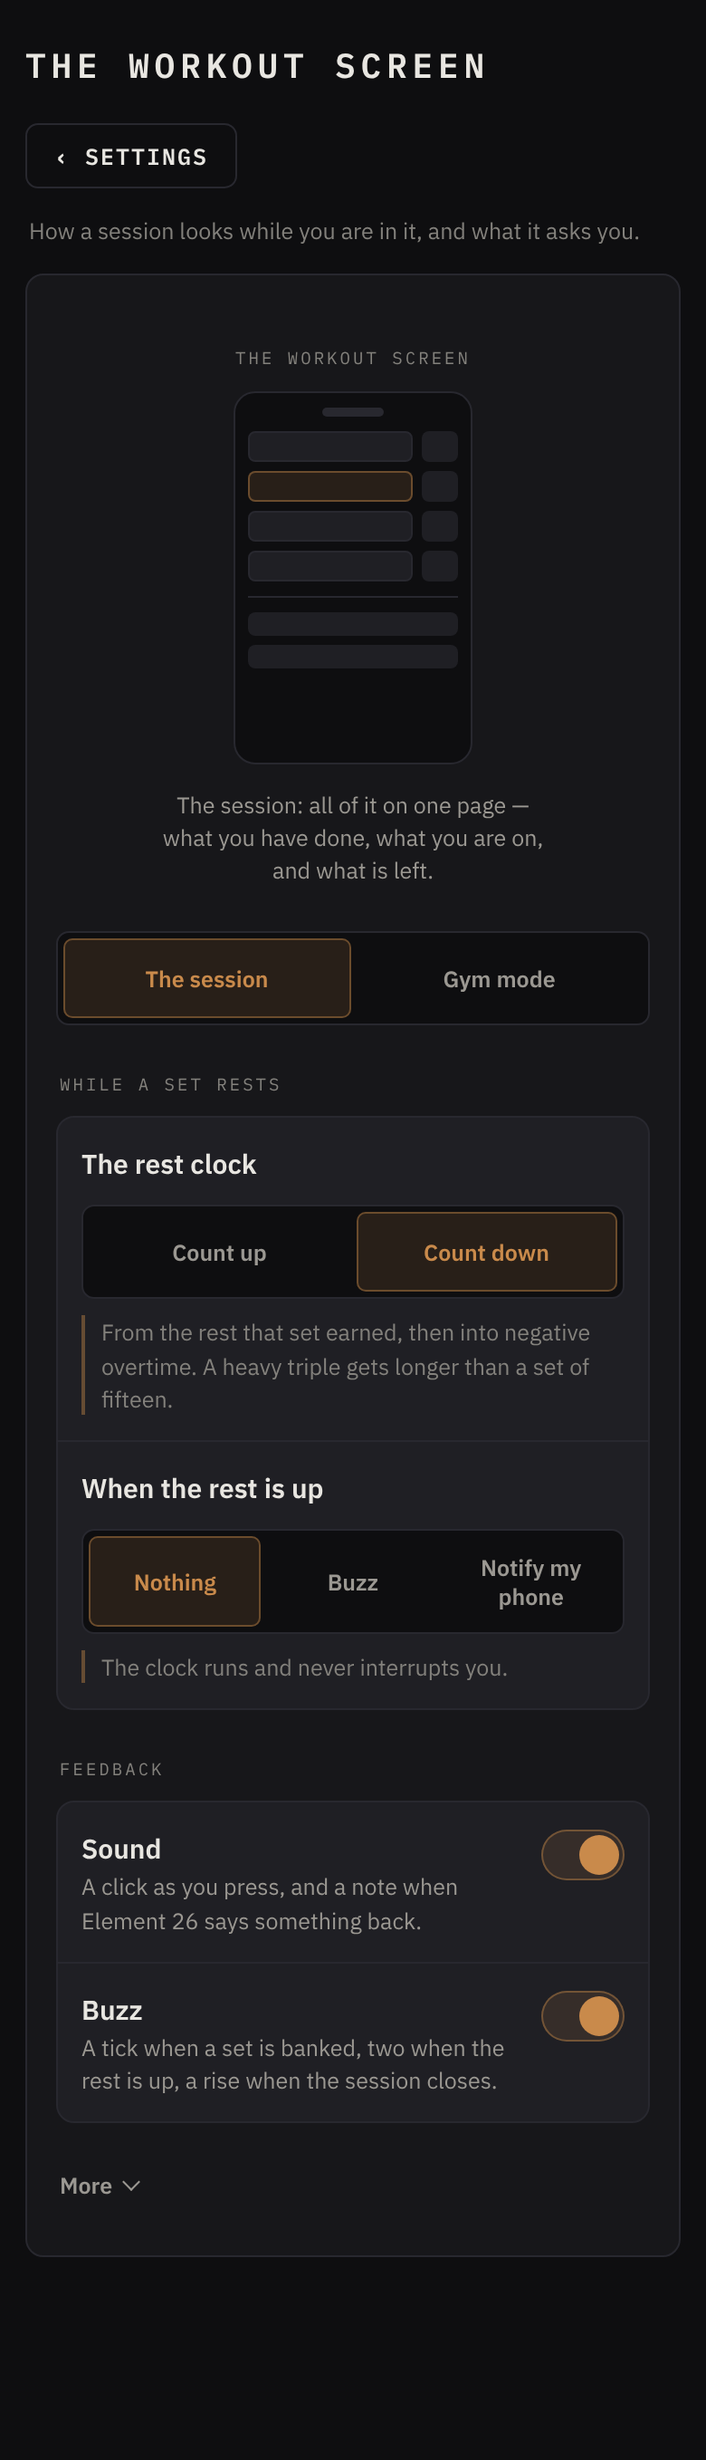
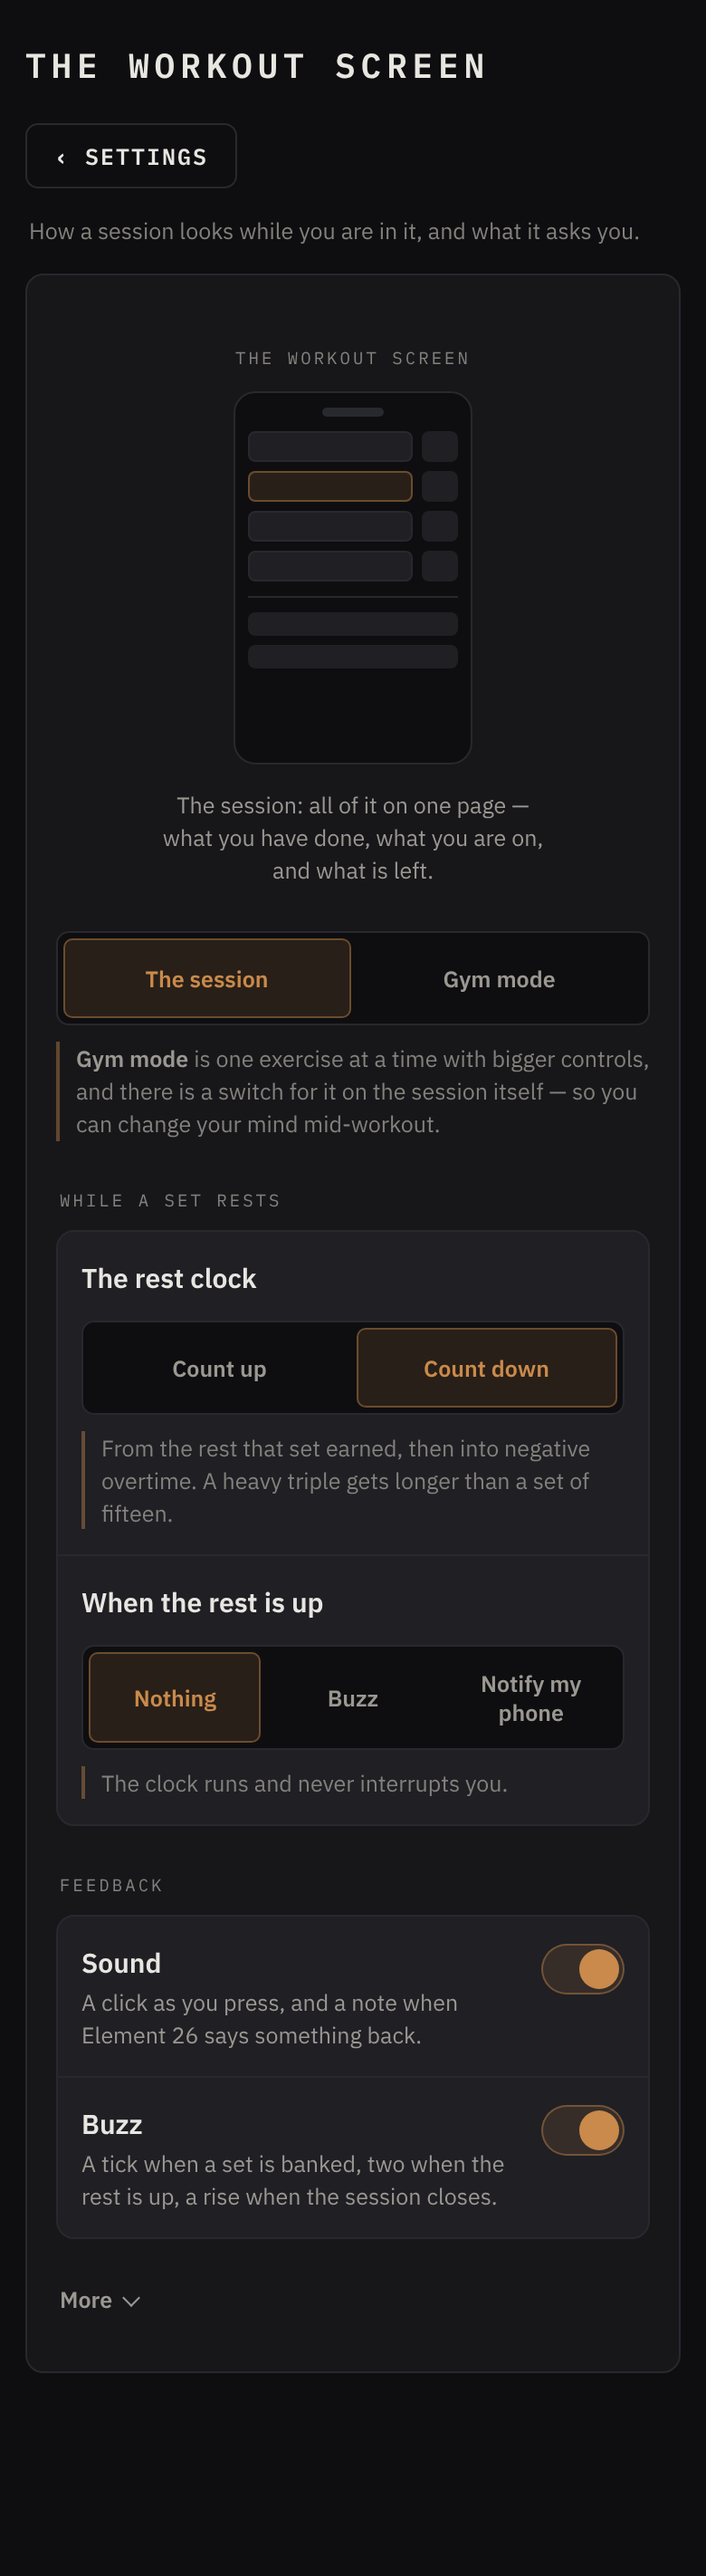
Reconcile the fifteen chosen Settings screens onto one spine
Design assets and three spec corrections; the app change in this commit is
only the plate work already described in afde68d's follow-up.

THE SPEC CORRECTIONS. Three specs failed on .43 and all three were
expectations, not regressions. plateask section 4 asserted the OLD precedence
outright -- "THE CHIP ANSWER STILL WINS WHERE IT IS GIVEN" -- which is the
rule that was deliberately reversed, so it now asserts the opposite and gains
a control requiring the disagreement to be reported rather than swallowed.
plategap2 and prefkeep matched the heading "smallest plate you can put on each
side", which was renamed to "The plates you have, each side"; both now match
the new wording AND assert the picker is present, which is what they were
really after. plategap2 also matched "Yours is set to", which became "Yours is
2.5 lb a side, so the bar moves in 5 lb" because "is set to" described a
stored setting that no longer decides anything.

THE RECONCILE. Walking the blocks each screen emits, rather than reading them,
found that three picks diverged from the spine: where B had a hero with no
control, the same fault sess B had and which had already been ruled on; remind
B was the only pick with a primary action and no says line; gym B had no More
at all, against the uncrowded rule. Fixed. Two exceptions are stated rather
than left to look like drift: data puts More above its irreversible group
because that group has to be last, and help has nothing to hide.
[…]

diff --git a/design/variants/variants.js b/design/variants/variants.js
@@ -102,11 +102,11 @@ const sess_A = ()=>
 const sess_B = ()=>
   heroW("HOW YOUR TRAINING IS RUN","Asks before adding weight, tracks RPE, adds its own warm-ups",
     "Three decisions do most of the work. The rest are grouped under them.")
++ seg(PROG,"ask")
++ says("<b>Ask me</b> — offered on the grade card with a one-tap Apply. Legs A squat is <b>80 lb</b>; clear the target and the next session offers <b>85</b>.")
 + sec("Progression")
 + group(
-    item("When a weight is ready to go up","",seg(PROG,"ask"),
-      "<b>Ask me</b> — offered on the grade card with a one-tap Apply.")
-  + item("How fast the number of sets climbs","",
+    item("How fast the number of sets climbs","",
       seg([{v:"peak",t:"Speed up"},{v:"off",t:"One at a time"}],"peak"),
       "Up to <b>3 sets</b> a block while a muscle keeps improving, easing off when it stops.")
   + item("Deload weeks","",seg([{v:"auto",t:"Suggest one"},{v:"planOnly",t:"Leave it to me"}],"auto"),
@@ -169,6 +169,7 @@ const screen_A = ()=>
     <p class="sd-hero-s" style="margin-top:13px">The session: all of it on one page — what you
       have done, what you are on, and what is left.</p></div>`
 + seg([{v:"regular",t:"The session"},{v:"focus",t:"Gym mode"}],"regular")
++ says("<b>Gym mode</b> is one exercise at a time with bigger controls, and there is a switch for it on the session itself — so you can change your mind mid-workout.")
 + sec("While a set rests")
 + group(
     item("The rest clock","",seg([{v:"up",t:"Count up"},{v:"down",t:"Count down"}],"down"),
@@ -260,11 +261,10 @@ const gym_B = ()=>
   + item("The number you write down","",
       seg([{v:"total",t:"Bar + plates"},{v:"plates",t:"Plates only"}],"total"),
       "A 45 lb bar with a 45 on each end is <b>135</b>, not 90 and never 45."))
-+ sec("Measuring yourself")
-+ group(
++ more("Measuring yourself — bodyweight and the tape", group(
     tog("Track your bodyweight","A weigh-in log on the Body tab. Turning it off hides the feature and deletes nothing.",true)
   + item("Tape measurements","",seg([{v:"in",t:"Inches"},{v:"cm",t:"Centimetres"}],"cm"),
-      "Independent of pounds or kilos."));
+      "Independent of pounds or kilos.")));
 
 const gym_C = ()=>
   heroW("IN THE GYM","Pounds, bar and plates","Tap any one to change it.")
@@ -397,6 +397,14 @@ const where_A = ()=>
 
 const where_B = ()=>
   hero("GYMS ELEMENT 26 KNOWS","3",null,"One usual, two you have visited once each.")
++ list(
+   `<button type="button" class="sd-r-h"><span class="sd-r-n">Palma Vista Gym</span>
+      <span class="sd-r-v">48 sessions</span><span class="sd-r-c">›</span></button>`
+ + `<button type="button" class="sd-r-h"><span class="sd-r-n">Lotus Gym</span>
+      <span class="sd-r-v">1 session</span><span class="sd-r-c">›</span></button>`
+ + `<button type="button" class="sd-r-h"><span class="sd-r-n">Uptown Gym</span>
+      <span class="sd-r-v">1 session</span><span class="sd-r-c">›</span></button>`)
++ says("Your usual is where the kit below comes from. The other two carry only what is <b>different</b> about them.")
 + sec("Your usual — Palma Vista")
 + group(
     item("Smallest plate each side","Not set, so it suggests exact numbers your rack may not make.",
@@ -576,6 +584,7 @@ const remind_B = ()=>
   hero("REMINDERS ON","0","of 3","None are on. Turn them on and each one is switched separately.")
 + `<div class="btn-row" style="margin:12px 0 0"><button type="button" class="btn"
     style="flex:1">Turn on reminders</button></div>`
++ says("Asks your phone for permission first. Nothing is scheduled until you pick the hours below, and each of the three is switched on its own.")
 + sec("Training")
 + group(tog("Which session is up","At an hour you choose. Skipped on a day you have already trained.",false)
   + `<div class="sd-item">${remPreview("Legs A today.","Squat, RDL, split squat.","Pick a time")}</div>`)

diff --git a/design/settings-reconcile.md b/design/settings-reconcile.md
@@ -1,0 +1,87 @@
+# Reconcile — do the fifteen chosen screens feel like one app?
+
+Your picks: **sess B · screen A · gym B · targets (dial + B's ranges) · where B · plan A ·
+day A · remind B · share B**, plus one pass each on the six action screens.
+
+Checked by walking the top-level block sequence each screen emits, rather than by eye.
+
+## The spine
+
+    HERO  >  the control that sets it  >  says  >  (SEC > group)*  >  MORE
+
+All fifteen conform to it now. Three did not when the audit was run, and one of those was a
+fault in my own reporting rather than in the design — see the last section.
+
+| screen | sequence |
+|---|---|
+| sess | HERO > seg > says > SEC×3 > MORE |
+| screen | HERO > seg > says > SEC×2 > MORE |
+| gym | HERO > seg > says > SEC > MORE |
+| targets | HERO(dial) > says > SEC×3 > says > MORE |
+| where | HERO > list > says > SEC×2 > MORE |
+| plan | HERO > seg > says > SEC > MORE |
+| day | HERO > stepper > says > SEC > MORE |
+| remind | HERO > button > says > SEC×3 > MORE |
+| share | HERO > seg > says > SEC×2 > MORE |
+| acct | HERO > SEC > group > says > SEC > MORE |
+| data | HERO > button > says > MORE > SEC(danger) |
+| patch | HERO > SEC > group > says > MORE |
+| storage | HERO > bar > button > says > SEC > MORE |
+| help | HERO > SEC×2 |
+| legal | HERO > SEC > MORE |
+
+## The three rules that settle the variety
+
+**1. The hero's type follows what the screen is about, not a house style.**
+
+- a **value** hero (mono, the number style) where one figure answers the screen: `LB`,
+  `8 h`, `30 days`, `3` gyms, `0 of 3`, `74 sessions`, `1.8 MB`, the version, the dial.
+- a **sentence** hero (sans, 600) where no single figure does: *Asks before adding weight,
+  tracks RPE, adds its own warm-ups*; *Build muscle*; *Fer*; *Open source*.
+- an **illustration** hero exactly once, on the workout screen, because that setting
+  changes what you look at. It is drawn as bars and blocks rather than a copy of the real
+  session, so it cannot go stale when the session layout changes. **It shows structure,
+  never content.**
+
+**2. The control under the hero is the hero's own control.** Where the hero is a fact
+rather than a setting — `acct`, `help`, `patch`, `legal` — there is no control under it and
+the first group follows directly. Those four are identity and reading screens, not settings.
+
+**3. `targets` is the one screen where the hero *is* the control.** The dial is both the
+readout and the thing you drag. That is better than splitting them, and it is allowed
+precisely because nothing else on that screen competes for the top.
+
+## What the audit changed
+
+- **where B** had a hero with no control — the same fault sess B had, which you had already
+  ruled on. The count's control is the list it counts, so the three gyms now sit under it.
+- **remind B** was the only pick with a primary action and no `says` after it.
+- **gym B** had no `MORE`, against rule 1. *Measuring yourself* — bodyweight and the tape —
+  is not "in the gym", so it collapses.
+- **data** is the one deliberate exception to "MORE last": the irreversible group must be
+  the final thing on the screen, so `MORE` sits above it.
+- **help** has no `MORE` and needs none. It is three buttons; there is nothing advanced to hide.
+
+## Saving, as agreed
+
+Instant, with an Undo toast. Every write goes through one call so nothing drifts:
+
+    toast(<what changed, in words>, "good", {go: () => <restore the previous value>})
+
+`toast()` already takes `opts.go`. The contract for the build: **no setting writes without
+producing a toast that can put it back**, and the toast names the value, not the field —
+"Warm-ups: plan only", not "Saved".
+
+## Two faults of mine, recorded
+
+**I reported three fixes as applied when only one was.** The patch script aborted on a bad
+anchor before reaching the other two, and I read "patched" from the one `print` that did
+run. The gym B stepper landed — which is the one I screenshotted, so the screenshot
+confirmed the fix that worked and said nothing about the two that had not. sess B's promoted
+control and screen A's `says` were missing for three messages. Caught here only because this
+audit walks the emitted blocks instead of trusting the earlier report.
+
+**The em-dash trap, again.** The second attempt failed because the anchor used `—`
+while the file holds a literal `—`. It is written down in the project notes and I hit it
+anyway. Both patch scripts now write after each successful substitution, so a later miss
+cannot silently discard an earlier success.
